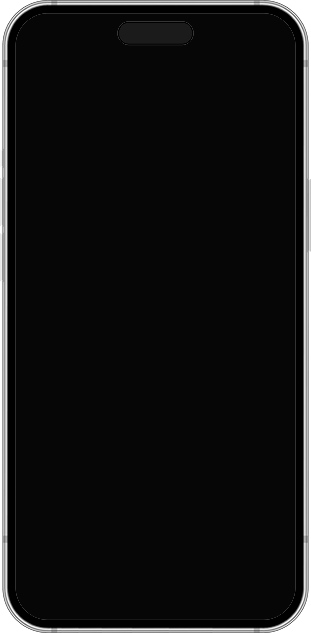
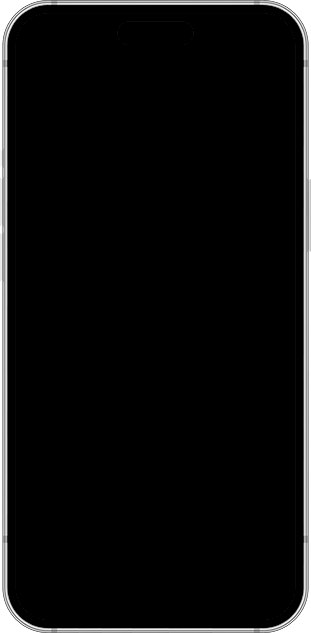
Update

diff --git a/socials.css b/socials.css
@@ -1,0 +1,24 @@
+*{
+  margin: 0;
+  padding: 0;
+}
+
+::-webkit-scrollbar{
+  width: 0px;
+  height: 0px;
+}
+
+img{
+  width: 100vw;
+  background-size: cover;
+  background-attachment: fixed;
+}
+
+a{
+  display: block;
+  text-align: center;
+  background-color: darkgreen;
+  color: white;
+  padding: 10px;
+}
+

diff --git a/style.css b/style.css
@@ -40,10 +40,14 @@ section#iphone{
 
 iframe#screen {
   position: relative;
-  top: 13px;
-  left: 17px;
-  width: 280px;
-  height: 607px;
+  top: 21px;
+  left: 29px;
+  width: 255px;
+  height: 589px;
+}
+* {
+  margin: 0px;
+  padding: 0px;
 }
 
 section#main-titles{

diff --git a/instagram.html b/instagram.html
@@ -7,6 +7,7 @@
   <link rel="stylesheet" href="socials.css">
 </head>
 <body>
-
+  <img src="images/tela-instagram.jpg" alt="tela-instagram">
+  <a href="https://www.instagram.com/alu.bot" target="_blank">ACESSAR</a>
 </body>
 </html>
